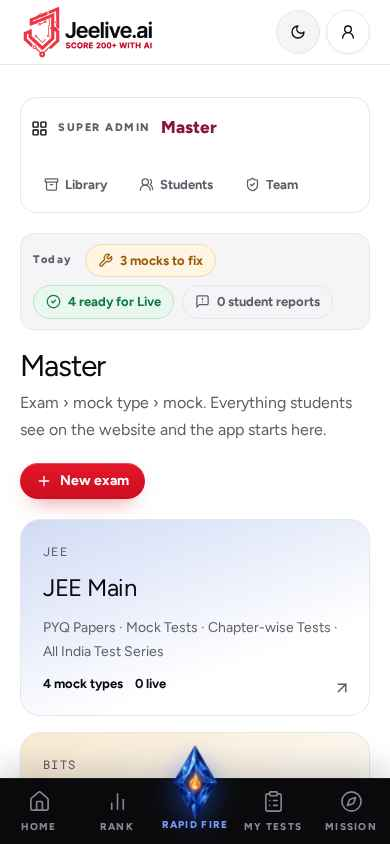
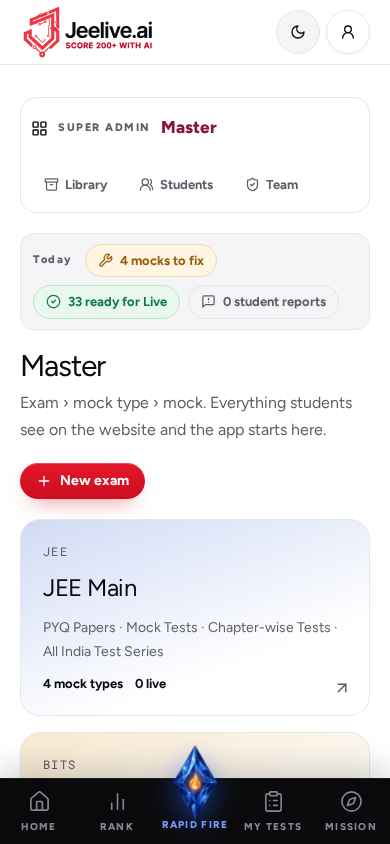
Upload failure ki jaanch ho gayi hai aur kuch important fixes preview mein lagu kar diye gaye hain, lekin ye abhi tak jeelive.ai ki live site par implement nahi hue hain.
**Live environment mein jo dikkat aayi thi (production logs ke mutabiq):** Aapki book smoothly upload hui, pages padhe gaye aur questions cut kiye gaye, par publish karne ki koshish mein storage ne 500 error diya jiski wajah se poori book fail ho gayi. Yeh error kal raat wale deploy mein bhi aa raha tha, isliye yeh naya code ka issue nahi lagta. Preview environment mein storage ab theek se chal raha hai jahan multiple uploads bina failure ke ho rahe hain. Matlab filhaal lagta hai ki live app ka storage connection mein masla hai.

**Jo fixes kiye gaye hain:**
- Storage ke error par app ab multiple attempts karta hai retry ke liye.
- Storage failure hone par ab poori book fail nahi hoti, sirf affected mock stop hota hai aur error message aata hai.
- Failed book par wahi PDF dobara choose karne par upload process usi point se resume hota hai.
- Book pages faster load ho rahe hain, aur unnecessary repeated loading kam kar diya gaya hai.
- Load tests kiye gaye jisme errors nahi aaye aur performance bhi behtar dekhi gayi hai.

**Kripya aap yeh karein:**
1. Emergent support ko contact karein (support@emergent.sh) aur unhe deployment ID aur run details dein, taki woh live storage issue ko resolve kar saken.
2. Publish/Re-deploy karein taaki ye fixes live site pe implement ho saken, phir failed book ke "Dobara chalao" button ka use karke retry karein.
[…]

Changed region(s): [[0.1538, 0.2773, 0.8308, 0.3697]]

diff --git a/frontend/src/components/master/uploadBook.js b/frontend/src/components/master/uploadBook.js
@@ -33,7 +33,7 @@ export async function sendBook({file,title,sectionId,replace,year,subject,onProg
  onProgress('Checking the file…',0);
  const book=await post('/admin/books',{filename:file.name,title,sha256:await sha(await file.arrayBuffer()),size:file.size,rights_confirmed:true,section_id:sectionId,
   ...(year?{year}:{}),...(subject?{subject}:{}),...(replace==='all'?{replace_all:true}:replace?{replace_ids:replace.split(',')}:{})});
- if(book.state!=='uploading'){onProgress(book.state==='failed'?'Same PDF again: carrying on from the saved pages.':'This PDF is already here. Opening its progress.',1);return book.id;}
+ if(book.state!=='uploading'){onProgress((book.message||'').startsWith('Same PDF chosen again')?'Same PDF again: carrying on from the saved pages.':'This PDF is already here. Opening its progress.',1);return book.id;}
  const total=Math.ceil(file.size/book.chunk_size),have=new Set(book.received_parts),size=i=>Math.min(book.chunk_size,file.size-i*book.chunk_size);
  const todo=[];let sent=0,done=have.size,failure=null;
  for(let i=0;i<total;i++){if(have.has(i))sent+=size(i);else todo.push(i);}

diff --git a/backend/tests/ui_upload215.py b/backend/tests/ui_upload215.py
@@ -1,0 +1,154 @@
+"""TEST-ONLY (iteration 215, T1): Upload PDF resilience via the bridge (:8772). Upload physics.pdf to the chapter-wise type, same PDF again,
+failed -> 'Dobara chalao', failed -> same PDF again carries on, book page polling. Run: python tests/ui_upload215.py [desk|mob]"""
+import asyncio, json, subprocess, sys, time
+from playwright.async_api import async_playwright
+sys.path.insert(0, '/app/backend/tests')
+from ui_verify211_lib import open_as, ok, R, BASE, F, SS, no_overflow
+
+DBN = [l for l in open('/tmp/bridge210.log') if l.startswith('READY')][-1].split()[1]
+PDF = '/app/data/chapter50/physics.pdf'
+
+
+def mongo(js):
+    return subprocess.run(['mongosh', '--quiet', DBN, '--eval', js], capture_output=True, text=True).stdout.strip()
+
+
+def books():
+    out = mongo("JSON.stringify(db.tejas_books.find({'payload.section_id':'%s','payload.filename':'physics.pdf'},{state:1,'payload.message':1}).toArray())" % F['chapters'])
+    return json.loads(out or '[]')
+
+
+async def upload(page, tag):
+    await page.click('[data-testid="type-upload-pdf"]')
+    await page.wait_for_selector('[data-testid="upload-dialog"]')
+    await page.set_input_files('[data-testid="upload-main-input"]', PDF)
+    await page.click('[data-testid="upload-subject"]'); await page.wait_for_timeout(300)
+    await page.click('[data-testid="upload-subject-physics"]', force=True); await page.wait_for_timeout(200)
+    await page.check('[data-testid="upload-rights"]')
+    await page.click('[data-testid="upload-send"]')
+    msgs = []; t0 = time.time()
+    while time.time() - t0 < 60:
+        if not await page.is_visible('[data-testid="upload-dialog"]'):
+            break
+        if await page.is_visible('[data-testid="upload-progress"]'):
+            try: m = (await page.text_content('[data-testid="upload-progress"]', timeout=500) or '').strip()
+            except Exception: m = ''
+            if m and (not msgs or msgs[-1] != m): msgs.append(m)
+        await page.wait_for_timeout(100)
+    closed = not await page.is_visible('[data-testid="upload-dialog"]')
+    toasts = await page.evaluate("() => [...document.querySelectorAll('[data-sonner-toast]')].map(t => (t.dataset.type||'') + ':' + t.textContent)")
+    print(tag, 'progress', msgs, 'toasts', toasts, 'secs', round(time.time() - t0, 1))
+    return closed, msgs, toasts
+
+
+async def run(pw, size):
+    tag = 'upload-' + size
+    br, page, bad, logs = await open_as(pw, 'owner', size)
+    puts = []; posts = []
+    async def onresp(r):
+        if r.request.method == 'POST' and r.url.split('?')[0].endswith('/api/admin/books'):
+            try: posts.append(await r.json())
+            except Exception: pass
+    page.on('response', onresp)
+    page.on('response', lambda r: puts.append((r.request.method, r.status, r.url.split('/api')[-1])) if '/parts/' in r.url else None)
+    try:
+        # clean any earlier run of this script (only our physics.pdf books in the disposable bridge DB)
+        type_url = f"{BASE}/super-admin/exam/{F['slug']}/{F['chapters']}"
+        await page.goto(type_url); await page.wait_for_selector('[data-testid="type-upload-pdf"]', timeout=30000)
+        before = books()
+        closed, msgs, toasts = await upload(page, tag + ' #1')
+        after = books()
+        ok(f'{tag}: dialog closed after first upload', closed, msgs)
+        ok(f'{tag}: no error toast', not any(t.startswith('error') for t in toasts), toasts)
+        new = [b for b in after if b['_id'] not in {x['_id'] for x in before}]
+        if before:
+            print('NOTE physics.pdf already in this type before this run:', before)
+        bid = (new or after)[0]['_id']
+        if not before:
+            ok(f'{tag}: progress showed "Sending… N of 3 parts"', any('of 3 parts' in m for m in msgs), msgs)
+            p = [x for x in puts if x[0] == 'PUT']
+            ok(f'{tag}: 3 part PUTs all 200', len(p) == 3 and all(s == 200 for _, s, _ in p), p)
+        await page.wait_for_selector(f'[data-testid="type-upload-{bid}"]', timeout=15000)
+        st = await page.text_content(f'[data-testid="type-upload-state-{bid}"]')
+        ok(f'{tag}: upload row present in Uploads panel', await page.is_visible(f'[data-testid="type-uploads"] [data-testid="type-upload-{bid}"]'), st)
+        print(tag, 'row state', st, 'db', books())
+        await page.screenshot(path=f'{SS}/{tag}-1.jpg', quality=40)
+        # (2) same PDF again
+        n0 = len(books()); puts.clear()
+        closed, msgs, toasts = await upload(page, tag + ' #2')
+        ok(f'{tag}: same PDF again -> no new book', len(books()) == n0, books())
+        ok(f'{tag}: same PDF again -> dialog closed, no error', closed and not any(t.startswith('error') for t in toasts), (msgs, toasts))
+        ok(f'{tag}: same PDF again -> no part PUTs', not [x for x in puts if x[0] == 'PUT'], puts)
+        # wait until the reading settles so the retry has something to resume
+        for _ in range(60):
+            s = [b for b in books() if b['_id'] == bid][0]['state']
+            if s not in ('uploading', 'received', 'reading', 'matching'): break
+            await asyncio.sleep(2)
+        print(tag, 'settled state', s)
+        # (3) failed -> Dobara chalao
+        mongo("db.tejas_books.updateOne({_id:'%s'},{$set:{state:'failed','payload.message':'Processing interrupted.'}})" % bid)
+        await page.reload(); await page.wait_for_selector(f'[data-testid="type-upload-{bid}"]', timeout=20000)
+        rb = f'[data-testid="type-upload-retry-{bid}"]'
+        ok(f'{tag}: failed row shows Dobara chalao', await page.is_visible(rb) and 'Dobara chalao' in (await page.text_content(rb)), await page.text_content(f'[data-testid="type-upload-{bid}"]'))
+        await page.screenshot(path=f'{SS}/{tag}-failed.jpg', quality=40)
+        if await page.is_visible(rb):
+            await page.click(rb); seen = []
+            try: await page.wait_for_selector('[data-sonner-toast][data-type="success"]:has-text("Phir se")', timeout=4000); rt = True
+            except Exception: rt = False
+            for _ in range(30):
+                st_ = [b for b in books() if b['_id'] == bid][0]['state']
+                if not seen or seen[-1] != st_: seen.append(st_)
+                await asyncio.sleep(0.1)
+            print(tag, 'states after retry click', seen)
+            ok(f'{tag}: retry success toast', rt)
+            ok(f'{tag}: retry -> book back to reading/matching', any(x in ('reading', 'matching', 'received') for x in seen), seen)
+            await page.wait_for_timeout(1500)
+            ok(f'{tag}: retry button gone after retry', not await page.is_visible(rb), await page.text_content(f'[data-testid="type-upload-{bid}"]'))
+        for _ in range(60):
+            s = [b for b in books() if b['_id'] == bid][0]['state']
+            if s not in ('uploading', 'received', 'reading', 'matching'): break
+            await asyncio.sleep(2)
+        # failed -> same PDF again carries on
+        mongo("db.tejas_books.updateOne({_id:'%s'},{$set:{state:'failed','payload.message':'Processing interrupted.'}})" % bid)
+        await page.reload(); await page.wait_for_selector('[data-testid="type-upload-pdf"]', timeout=20000)
+        n0 = len(books()); posts.clear()
+        closed, msgs, toasts = await upload(page, tag + ' #3')
+        b = [x for x in books() if x['_id'] == bid][0]
+        ok(f'{tag}: failed + same PDF -> carries on (same book, not failed)', len(books()) == n0 and b['state'] != 'failed', b)
+        pm = json.dumps(posts[-1]) if posts else ''
+        print(tag, 'POST /admin/books reply', pm[:400])
+        ok(f'{tag}: failed + same PDF -> message', 'Same PDF chosen again' in pm or 'Same PDF chosen again' in (b.get('payload') or {}).get('message', ''), pm[:300])
+        ok(f'{tag}: failed + same PDF -> dialog closed, no error', closed and not any(t.startswith('error') for t in toasts), (msgs, toasts))
+        for _ in range(60):
+            s = [x for x in books() if x['_id'] == bid][0]['state']
+            if s not in ('uploading', 'received', 'reading', 'matching'): break
+            await asyncio.sleep(2)
+        print(tag, 'final state', s)
+        # (4) book page: opens fast, mock counts, polling only while working
+        hits = []
+        page.on('request', lambda r: hits.append(time.time()) if r.url.split('?')[0].endswith(f'/admin/books/{bid}') and r.method == 'GET' else None)
+        t0 = time.time(); await page.goto(f'{BASE}/super-admin/upload?book={bid}')
+        await page.wait_for_selector('[data-testid="book-map"]', timeout=20000); dt = time.time() - t0
+        ok(f'{tag}: book page opens fast ({dt:.1f}s)', dt < 6, dt)
+        rows = await page.locator('[data-testid^="book-mock-"] .book-section-heading small').all_text_contents()
+        print(tag, 'mock rows', len(rows), rows[:3])
+        ok(f'{tag}: mock counts shown (questions/explanations/key-only)', rows and all('questions' in r and 'original explanations' in r and 'key-only' in r for r in rows), rows[:3])
+        state = await page.text_content('[data-testid="book-detail-state"]')
+        n1 = len(hits); await page.wait_for_timeout(20000); n2 = len(hits)
+        print(tag, 'book state', state, 'GETs during 20s idle', n2 - n1)
+        if s in ('ready', 'attention_needed', 'chapters_needed'):
+            ok(f'{tag}: no polling once {s}', n2 - n1 == 0, n2 - n1)
+        await no_overflow(page, tag + ' book page')
+        await page.screenshot(path=f'{SS}/{tag}-book.jpg', quality=40)
+        ok(f'{tag}: no 4xx/5xx', not bad, bad[:5]); ok(f'{tag}: no page errors', not logs, logs[:3])
+    finally:
+        await br.close()
+
+
+async def main():
+    async with async_playwright() as pw:
+        for s in sys.argv[1:] or ['desk']:
+            await run(pw, s)
+    print('TOTAL', len(R), 'PASS', sum(1 for _, x in R if x), 'FAIL', sum(1 for _, x in R if not x))
+
+asyncio.run(main())

diff --git a/memory/PRD.md b/memory/PRD.md
@@ -3,7 +3,9 @@
 - Production RCA (deployer, /app/deployer-agent-docs/RCA_bc239ca9-*.MD): live build = run bc239ca9 (15:24 UTC, CUT_VERSION 2). Book eed94a04 was read (2527 pages, 1250 cuts, 24 mocks) but publishing failed: Emergent object storage PUT returns HTTP 500 ('Private storage unavailable (500)') from book_publish.crop_ref; the whole book went to state=failed. Same 500 on the previous run (books 3a704ed9, 4e23420a). Pods healthy, no OOM/413/504. Preview storage works (25 parallel PNG PUTs, 0 fails) -> production storage binding/quota is a PLATFORM issue (needs Emergent support).
 - Why "file accept nahi karta": choosing the same PDF again for the same section returned the old failed book and did nothing. Why slow: book page polled every 8 s and loaded every mock with every question; failed book retried by maintenance.
 - Fixes: tejas_storage.request retries 500/502/503/504 (waits 1,2,4 s) and re-inits key on 401/403/404; publish_batch holds only the mock on StorageError (book no longer 'failed'); create() resumes a failed book when the same PDF is chosen again; master type list shows 'Dobara chalao' for failed books (can_retry + revision); book_view uses mock_rows (no questions/cuts loaded or sent); BookPublishing polls only while working; browser uploads 4 parts at once (uploadBook.js LANES=4); PDF worker: cdrawings, get_image_info, only image area rendered (identical output on 524 sampled pages). Bigger worker groups (40 pages) measured no faster, kept at 10.
-- Tests: tests/storage_fail215.py 13/13; tests/upload_load215.py (two 2.5k-page books at once: Super Admin list p95 0.02 s, max 0.21 s, uploads 0 errors).
+- Tests: tests/storage_fail215.py 13/13; tests/upload_load215.py (two 2.5k-page books at once: Super Admin list p95 0.01 s, max 0.22 s, uploads 0 errors; book page 0.013 s / 38 KB, type list 0.017 s, fix list 0.011 s). Testing agent: chapters_iso182 58/58, cut_cases210 41/41, typed_delete_iso185 54/54 (one 49/54 run under 4 parallel suites: local standalone Mongo 'retryable writes' error in crop_ref files.update_one — environment, not reproduced alone), ui_upload215.py 21/21 desk + 21/21 mob, ui_verify212 66/66.
+- OPEN (platform): production object storage PUT 500. Needs Emergent support (deployment 04241398-cdb1-4ca5-8232-874011d24cc3, run bc239ca9). Until fixed, mocks hold with the storage reason instead of the book failing; 'Dobara chalao' / Retry re-publishes once storage works.
+- Not done / ideas: job ids reuse book id + revision (fragile if a book row is deleted without its jobs); storage 404 still re-inits the key once per read.
 
 ## Status — 2026-11-21 (night): chipke options engine + bigger phone pictures (preview only; owner deployed the earlier build to jeelive.ai)
 - Owner: "Option रुके हैं, मतलब वो तो मैं देख लूंगा ना ... तुम machine बनाओ" and "मैं live सभी papers को वैसा ही दोबारा डाल दूंगा ... तुमको खुद process नहीं करना है". So: engine only, no data processed by the agent; no live paper re-cut by the agent.
